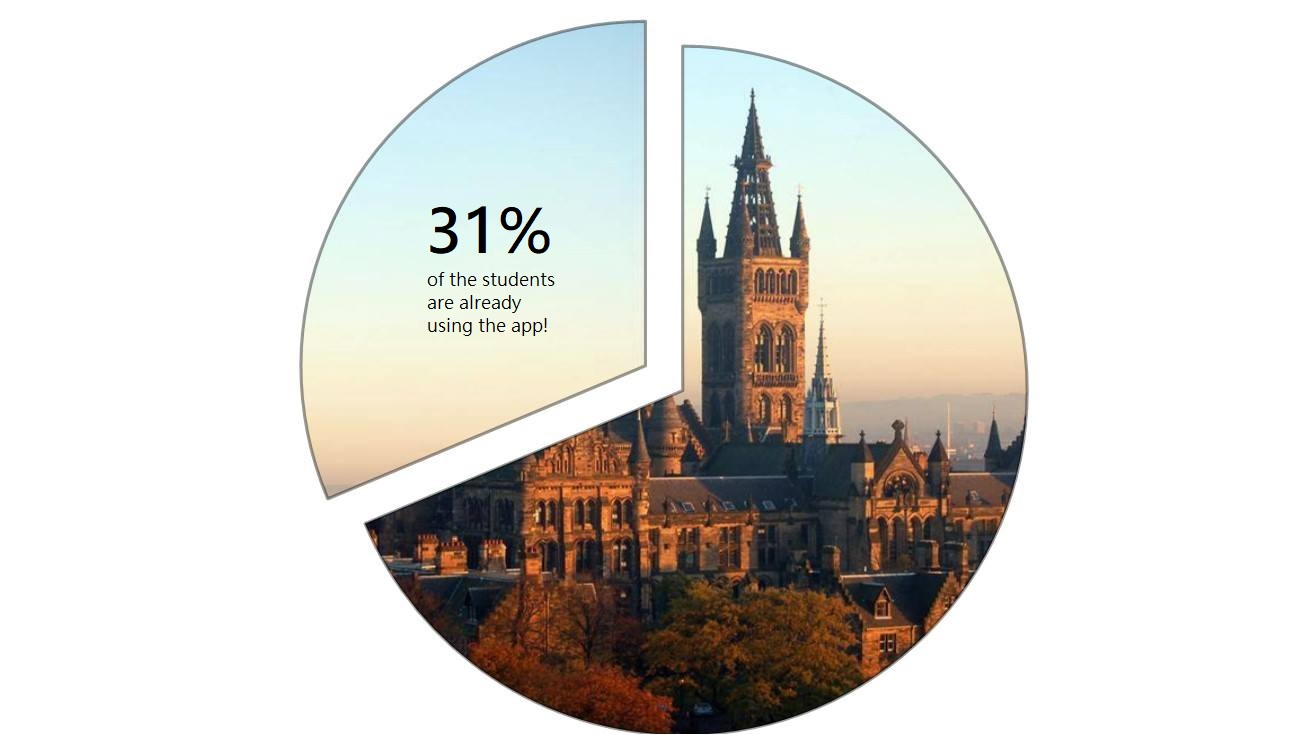
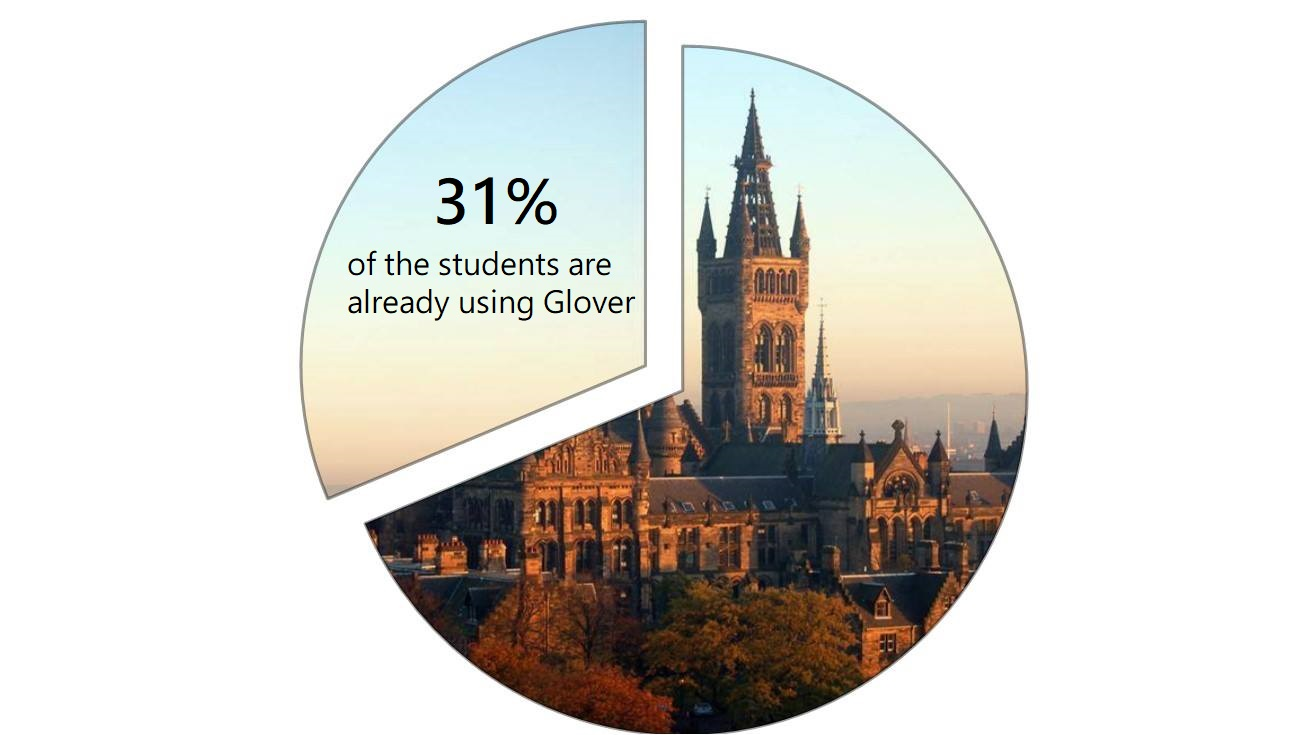
Home page finalized

Changed region(s): [[0.2776, 0.2395, 0.4934, 0.449]]

diff --git a/templates/glover/index.html b/templates/glover/index.html
@@ -10,22 +10,23 @@
 <div class = "UpperSection">
 <!-- source = https://codepen.io/harmputman/pen/IpAnb -->
 	<div class = "UpperSectionItem1"> 
-	<blockquote> Dear student, <br>
-    welcome to the University of Glasgow's top dating app!
-	This is a place where you can meet amazing new people with the same interests. So don't worry, 
-	you are on the right track to finding love. 
+	<blockquote> <center> <b> Dear student, </b> <br>
+    welcome to the University of Glasgow's <br> top dating app! <br>
+	This is a place where you can meet amazing new people with the same interests. <br>
+	So don't worry, you are on the right track to finding love. </center> <p> </p>
 	</blockquote>
 	</div> 
 	
 	<div class = "UpperSectionItem2">
-	<img src={% static 'images/fakeStatistic.jpg' %} width="95%" height="95%" alt="Statistic">
+	<img src={% static 'images/fakeStatistic.jpg' %} width="660px" height="370px" alt="Statistic">
+	<p> </p>
 	</div>
     
 	<div class="UpperSectionItem3">
 	<meta http-equiv="X-UA-Compatible" content="IE=edge,chrome=1">
     <meta name="description" content="A modern JS library for SVG path animation">
     <center>
-	<svg width="50%" height="50%" xmlns:dc="http://purl.org/dc/elements/1.1/" xmlns:cc="http://creativecommons.org/ns#" xmlns:rdf="http://www.w3.org/1999/02/22-rdf-syntax-ns#" xmlns:svg="http://www.w3.org/2000/svg" xmlns="http://www.w3.org/2000/svg" xmlns:sodipodi="http://sodipodi.sourceforge.net/DTD/sodipodi-0.dtd" xmlns:inkscape="http://www.inkscape.org/namespaces/inkscape" viewBox="0 20 200 100" version="1.1" id="drawing" inkscape:version="0.92+devel (b071ae7561, 2017-11-25, custom)" sodipodi:docname="drawing.svg" data-llp-composed="true" class="lazy-line-painter">
+	<svg width="75%" height="75%" xmlns:dc="http://purl.org/dc/elements/1.1/" xmlns:cc="http://creativecommons.org/ns#" xmlns:rdf="http://www.w3.org/1999/02/22-rdf-syntax-ns#" xmlns:svg="http://www.w3.org/2000/svg" xmlns="http://www.w3.org/2000/svg" xmlns:sodipodi="http://sodipodi.sourceforge.net/DTD/sodipodi-0.dtd" xmlns:inkscape="http://www.inkscape.org/namespaces/inkscape" viewBox="0 20 200 100" version="1.1" id="drawing" inkscape:version="0.92+devel (b071ae7561, 2017-11-25, custom)" sodipodi:docname="drawing.svg" data-llp-composed="true" class="lazy-line-painter">
 	  <defs id="defs1423"/>
 	  <sodipodi:namedview id="base" pagecolor="#ffffff" bordercolor="#666666" borderopacity="1.0" inkscape:pageopacity="0.0" inkscape:pageshadow="2" inkscape:zoom="1.4142136" inkscape:cx="312.42418" inkscape:cy="785.50106" inkscape:document-units="mm" inkscape:current-layer="layer1" inkscape:document-rotation="0" showgrid="false" inkscape:window-width="1920" inkscape:window-height="1001" inkscape:window-x="-9" inkscape:window-y="-9" inkscape:window-maximized="1"/>
 	  <metadata id="metadata1426">

diff --git a/static/css/AboutType.css b/static/css/AboutType.css
@@ -23,7 +23,6 @@
   height: 250px;
   border: 3px solid;
   margin: 50px;
-
 }
 
 .caption{
@@ -36,15 +35,16 @@
 .teamName {
     font-size: 50px;
     font-family: 'Parisienne', cursive;
-    text-shadow: 2px 2px 4px #000000;
-    color: #ccb3ff;
+    text-shadow: 2px 2px 4px #e39000;
+    color: #002c6b;
+    font-weight: 900;
 }
 
 .BigHeadings {
     font-size: 67px;
     font-family: 'Parisienne', cursive;
-    text-shadow: 2px 2px 4px #000000;
-    color: #ccb3ff;
+    text-shadow: 2px 2px 4px #e39000;
+    color: #002c6b;
     text-align: center;
     
 }
@@ -52,16 +52,16 @@
 .MainHeadings {
    font-size: 80px;
    font-family: 'Parisienne', cursive;
-   text-shadow: 2px 2px 4px #000000;
-   color: #ccb3ff;
+   text-shadow: 2px 2px 4px #e39000;
+   color: #002c6b;
    text-align: center;
 }
 
 .UpperSection {
   position: relative;
   display: grid;
-  grid-template-columns: 1fr, 2fr;
-  grid-template-rows: 1fr, 0.7fr, 1fr;
+  grid-template-columns: 1fr, 1fr;
+  grid-template-rows: auto 2fr auto;
 }
 
 .UpperSectionItem1 {
@@ -86,7 +86,7 @@
 }
 
 blockquote {
-  font: normal 300 1em/1.5em 'Ubuntu', sans-serif;
+  font-family: 'Fira Mono', monospace;
   display: block;
   border-width: 2px 0;
   border-style: solid;
@@ -98,7 +98,7 @@ blockquote {
 blockquote:before {
   content: '\201C';
   position: absolute;
-  top: 1.4em;
+  top: 2.3em;
   left: 90%;
   transform: translate(-50%, -50%);
   background: #fff;

diff --git a/templates/glover/base.html b/templates/glover/base.html
@@ -18,7 +18,7 @@
 
 		<link rel="stylesheet" href="{% static 'css/Abouttype.css' %}" />
 		<link href="https://fonts.googleapis.com/css?family=Parisienne&display=swap" rel="stylesheet">
-        <link href="https://fonts.googleapis.com/css?family=Montserrat&display=swap" rel="stylesheet">
+        <link href="https://fonts.googleapis.com/css?family=Fira+Mono&display=swap" rel="stylesheet">
 		<link rel="stylesheet" href="{% static 'css/wrapper.css' %}" />
 
         <script src="{% static 'js/lazy-line-painter-1.9.6.min.js' %}" ></script>

diff --git a/static/css/styles.css b/static/css/styles.css
@@ -35,8 +35,6 @@
     width: 140px;
 }
 
-
-
 .img-responsive {
   max-width: 100%;
 }
